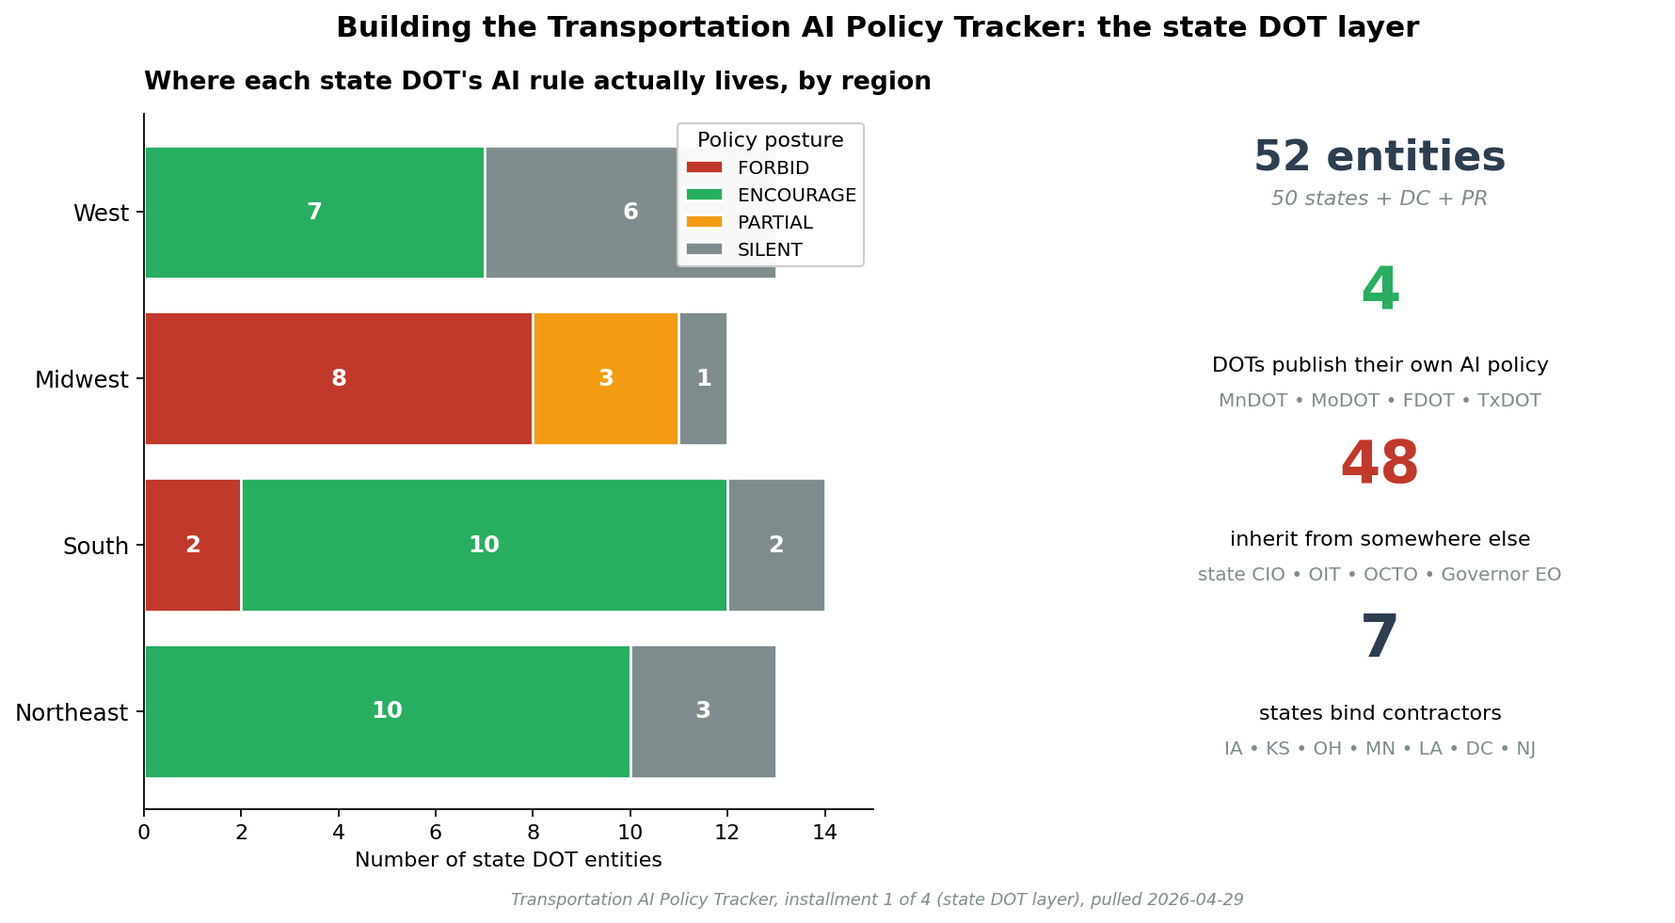
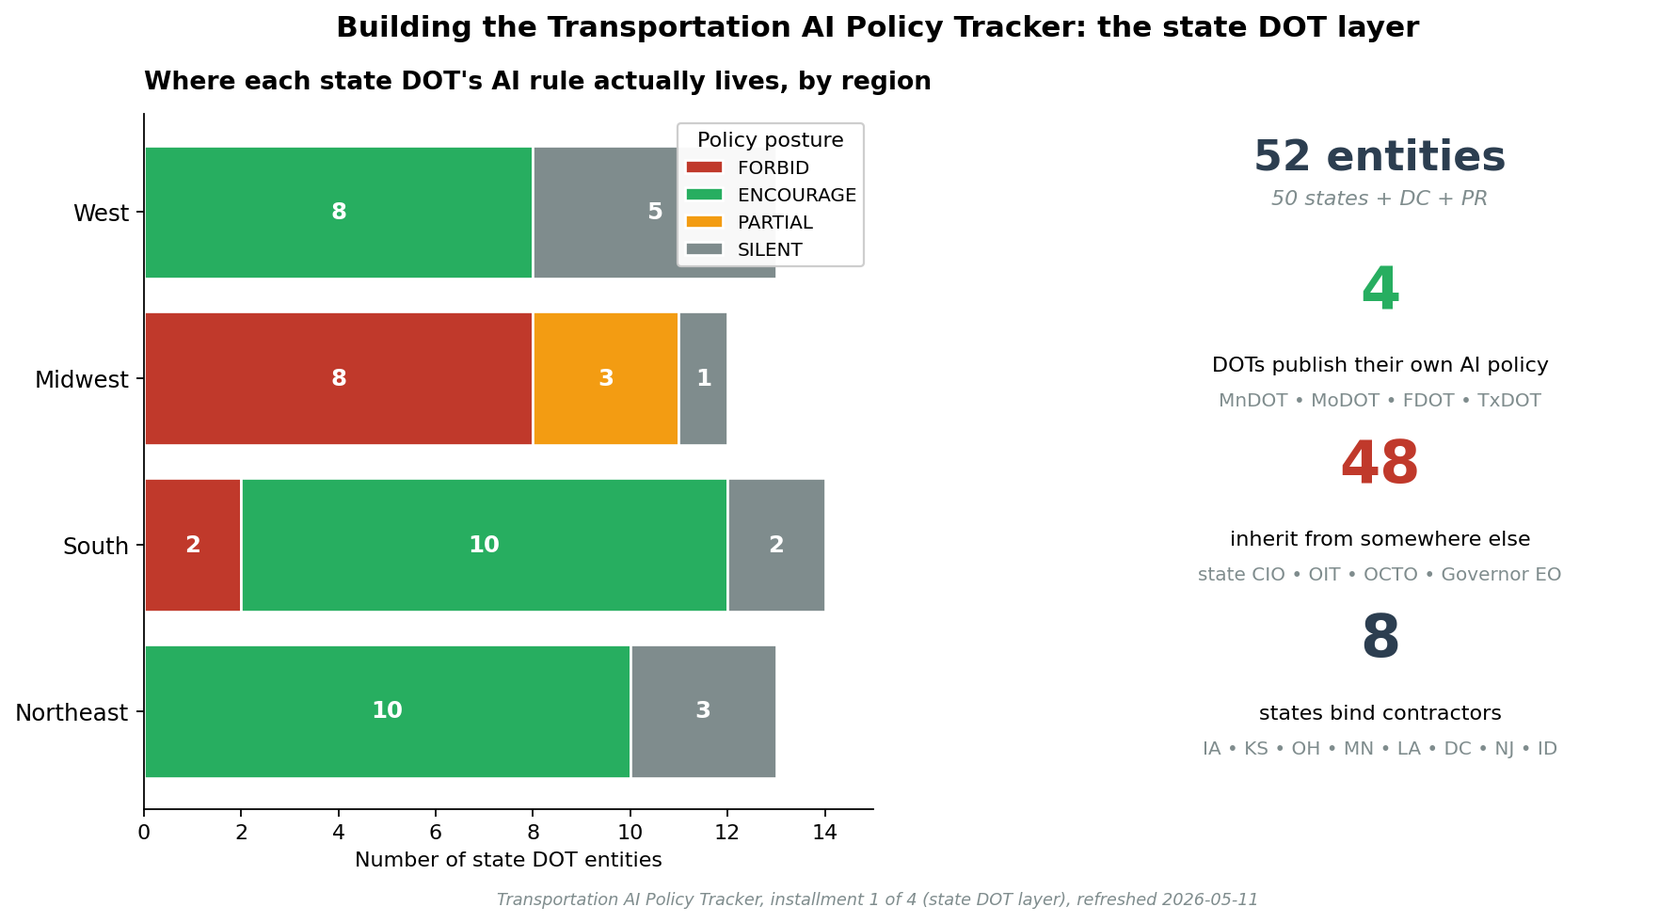
Correct Idaho classification (SILENT -> ENCOURAGE, binds contractors)
Idaho was missed in the initial Tracker pull. The state's AI Governance
Policy, Standard, and Guideline (P.ITS-01 / S.ITS-01 / G.ITS-01) was
published by the Office of Information Technology Services in August 2025
but lives on its.idaho.gov rather than itd.idaho.gov, with a PDF URL path
that misrepresents the date as 2024/09. The PDF binary also required
pdftotext -layout to extract clean text.

The document binds all state employees, contractors, sub-contractors,
agents, and business partners by its own scope clause. ITD inherits it.

Bucket changes:
  ENCOURAGE: 27 -> 28
  SILENT:    10 -> 9 (grand totals) / 12 -> 11 (regional split)
  West region: ENCOURAGE 7 -> 8, SILENT 6 -> 5

Contractor-binding states: 7 -> 8 (Idaho joins IA, KS, OH, MN, LA, DC, NJ).

48-of-52 inherit count is unchanged (Idaho was always in the inheriting
bucket; the policy it inherits just now has a name).

Methodology updated with two new guards:
  - cross-check state IT services subdomain for each state
  - validate PDF text-extraction length, fall back to pdftotext -layout
    or manual download when extraction returns near-empty

Full incident note in CORRECTIONS.md.

Brought to attention by Mike Copeland on LinkedIn 2026-05-10.

diff --git a/build_chart.py b/build_chart.py
@@ -112,17 +112,18 @@ def build_chart():
     ax2.text(0.5, headline_y - 2 * line_h - 0.27, "state CIO • OIT • OCTO • Governor EO",
              ha="center", fontsize=9, color="#7f8c8d", transform=ax2.transAxes)
 
-    # 7 contractor-binding
-    ax2.text(0.5, headline_y - 3 * line_h - 0.22, "7", ha="center", fontsize=28,
+    # 8 contractor-binding (was 7 prior to Idaho correction on 2026-05-11)
+    contractor_count = sum(1 for r in rows if r["contractor_binding"] == "Yes")
+    ax2.text(0.5, headline_y - 3 * line_h - 0.22, str(contractor_count), ha="center", fontsize=28,
              fontweight="bold", color="#2c3e50", transform=ax2.transAxes)
     ax2.text(0.5, headline_y - 3 * line_h - 0.31, "states bind contractors",
              ha="center", fontsize=10, transform=ax2.transAxes)
-    ax2.text(0.5, headline_y - 3 * line_h - 0.36, "IA • KS • OH • MN • LA • DC • NJ",
+    ax2.text(0.5, headline_y - 3 * line_h - 0.36, "IA • KS • OH • MN • LA • DC • NJ • ID",
              ha="center", fontsize=9, color="#7f8c8d", transform=ax2.transAxes)
 
     # Footer
     fig.text(0.5, 0.005,
-             "Transportation AI Policy Tracker, installment 1 of 4 (state DOT layer), pulled 2026-04-29",
+             "Transportation AI Policy Tracker, installment 1 of 4 (state DOT layer), refreshed 2026-05-11",
              ha="center", fontsize=8, color="#7f8c8d", style="italic")
 
     plt.suptitle("Building the Transportation AI Policy Tracker: the state DOT layer",

diff --git a/regional-source-notes/state-dot-corpus-west.md b/regional-source-notes/state-dot-corpus-west.md
@@ -15,7 +15,7 @@ Scope note: very few state DOTs publish standalone AI policies. The dominant pat
 | 3 | **California — Caltrans** | Yes (DOT-level CDAO authority) | [EO N-12-23](https://www.gov.ca.gov/wp-content/uploads/2023/09/AI-EO-No.12-_-GGN-Signed.pdf), [EO N-5-26](https://www.gov.ca.gov/wp-content/uploads/2026/03/3.30-FINAL-Trusted-AI-Procurement-EO-N-5-26.pdf), [State GenAI Guidelines](https://www.govops.ca.gov/wp-content/uploads/sites/11/2024/03/3.a-GenAI-Guidelines.pdf) | EO N-12-23: Sep 6, 2023; State GenAI Guidelines: Mar 2024; EO N-5-26: Mar 30, 2026 | **ENCOURAGE** (most mature) | CalSTA + Caltrans CDAO sets ethical AI policy; statewide GenAI procurement guidelines (SAM/SIMM) | EO N-12-23 (2023), EO N-5-26 (2026), SB 896 GenAI Accountability Act, AB 2013 training-data transparency | **Named CDAO: Vidhu Shekhar** (formalized Feb 2025 via CalSTA memo). 18,000 of 23,000 Caltrans employees got Microsoft Copilot access (April 2025). First DOT in nation to award GenAI vendor contracts (2024) |
 | 4 | **Colorado — CDOT** | No DOT-specific; broad state law in flight | [SB24-205](https://leg.colorado.gov/bills/sb24-205) | Signed May 17, 2024; effective delayed to Jun 30, 2026 (SB 25B-004) | **SILENT** at DOT level | CDOT has Chief Data Office; no published AI AUP located on codot.gov | Colorado AI Act (SB24-205) — consumer protection / high-risk AI deployers, attorney general enforcement | CDOT focus is on connected/autonomous vehicles, traffic ops dashboards, geospatial. No CDAO. SB 24-205 will reach CDOT only if it deploys "high-risk" AI making consequential decisions |
 | 5 | **Hawaii — HDOT** | Partial (statewide framework via ETS) | [HB2152 (2024)](https://www.capitol.hawaii.gov/sessions/session2024/bills/HB2152_.HTM), [ETS Policies](https://ets.hawaii.gov/policies/) | HB2152 enacted 2024; ETS guidelines under development | **SILENT → emerging ENCOURAGE** | Statewide ETS policies/standards apply; AUP via ETS; no HDOT-specific AI AUP located | HB2152 directs ETS + state CIO + cybersecurity coordinator to risk-assess GenAI; no Governor Green AI EO located | Hawaii is in build-the-framework phase. Risk assessment + workforce-impact reports were due to legislature 20 days before 2025 session |
-| 6 | **Idaho — ITD** | No DOT-specific; statewide guidance in draft | [ITS AI Help Center](https://its.idaho.gov/ai/) | 2025 (draft to legislature) | **SILENT** | Office of Information Technology Services (ITS) is drafting statewide AI guidance; presented to legislature Jul 2025 | No AI EO; legislature work-group reviewing | ITD piloting GenAI w/ small group of employees; ITD presented "GenAI Challenge to Highway QA Integrity" at TRB; ITD DMV named one of four AI leaders by ITS |
+| 6 | **Idaho — ITD** | No DOT-specific; ITD inherits binding statewide AI-PSG (P.ITS-01 / S.ITS-01 / G.ITS-01) | [AI Governance Policy/Standard/Guideline (Aug 2025 PDF)](https://its.idaho.gov/wp-content/uploads/2024/09/AI-PSG_FINALAug2025.pdf), [Idaho's AI Advantage Framework](https://its.idaho.gov/wp-content/uploads/2025/08/Idaho-AI-Advantage-Framework.pdf), [ITS AI Help Center](https://its.idaho.gov/ai/) | v1.0 — August 2025 | **ENCOURAGE (binds contractors)** | Idaho Office of Information Technology Services (ITS) published a combined Policy + Standard + Guideline binding all state employees, contractors, sub-contractors, agents, and business partners. Mandatory human review of GenAI outputs; AI-use disclosure on public-facing content; 4-tier data classification (Critical data prohibited from GenAI without AI Executive Committee approval); NIST AI RMF aligned (GOVERN, MAP, MEASURE, MANAGE) | No AI EO at governor level; ITS Executive Committee governs | ITD inherits AI-PSG; ITD DMV named one of four AI leaders by ITS; ITD presented "GenAI Challenge to Highway QA Integrity" at TRB. **Correction (2026-05-11):** Issue 11 originally classified Idaho as SILENT (draft pending). The AI-PSG was published nine months before Issue 11 shipped; we missed it because the document lives on its.idaho.gov rather than itd.idaho.gov, the PDF URL path is `/wp-content/uploads/2024/09/...` despite the Aug 2025 date, and the PDF binary required `pdftotext -layout` to extract cleanly. Brought to attention by Mike Copeland. |
 | 7 | **Montana — MDT** | No DOT-specific; workforce-focused EO | [EO 5-2025 (406 JOBS)](https://news.mt.gov/Governors-Office/Governor_Gianforte_Announces_New_Initiative_to_Bolster_Workforce_Development_in_Skilled_Trades_and_AI) | Aug 11, 2025 | **SILENT** at DOT level | SITSD (CIO Kevin Gilbertson) sets statewide IT standards | EO 5-2025 (workforce/AI training, not guardrails); 2025 session passed Right to Compute Act (SB 212), HB 556 (insurer AI), HB 514 (NIL) | EO 5-2025 directs Dept of Labor to integrate AI tools and train workforce. Montana's posture is permissive ("right to compute"). MDT itself has no public AI policy |
 | 8 | **Nevada — NDOT** | Yes (statewide CIO policy binds NDOT) | [Nevada AI Policy (CIO-signed)](https://www.it.nv.gov/siteassets/itnew.nv.gov/content/governance/Policy_on_the_Responsible_and_Ethical_Use_of_Artificial_Intelligence_in_Nevada_-_CIO_Signed.pdf) | Dec 2024 | **ENCOURAGE** (with explicit floor) | Statewide policy on responsible/ethical AI, signed by CIO Tim Galluzi under Gov. Lombardo | Lombardo policy (Dec 2024); 2025 session: AB 406 (mental health AI restriction), SB 213/263 (AI synthetic intimate images) | Policy explicitly **prohibits agency-level AI policies from being more lenient than the statewide one** — that's load-bearing for NDOT |
 | 9 | **New Mexico — NMDOT** | No DOT-specific; statewide transparency law | [HB0184 (2024)](https://www.nmlegis.gov/Sessions/24%20Regular/bills/house/HB0184.HTML) | 2024 session; first inventories due Oct 1, 2024 | **SILENT** at DOT level | Statewide General Services Department implementing the AI Transparency Act ($500K appropriation) | Government Use of AI Transparency Act (HB0184) — agencies must inventory AI systems, identify whether they make/inform "consequential decisions" | NMDOT must report its AI inventory to the state. No AI EO. AG Torrez has proposed deepfake legislation separately |
@@ -114,9 +114,9 @@ Per [Daily Montanan reporting](https://dailymontanan.com/2025/08/11/gianforte-an
 
 Of the 13 western state DOTs, **zero** publish their own standalone AI acceptable-use policy. The bucket distribution falls on the **statewide policies that bind each DOT**:
 
-- **ENCOURAGE-with-guardrails (7):** Arizona, California, Nevada, Oregon, Utah, Washington — plus Alaska, where two 2025 administrative orders are explicitly pro-AI but lack data-handling fences.
-- **SILENT at DOT level (6):** Colorado, Hawaii (framework still being built), Idaho (draft pending), Montana, New Mexico (transparency-only), Wyoming.
-- **FORBID (0):** No western state DOT operates under an explicit prohibition on cloud AI uploads. The strictest language is Arizona's P2000 ("confidential data shall not be entered into publicly accessible AI systems without authorization"), and Nevada's policy floor ("agency-level AI policies cannot be more lenient than statewide").
+- **ENCOURAGE-with-guardrails (8):** Arizona, California, Idaho (corrected 2026-05-11 — see Idaho row note), Nevada, Oregon, Utah, Washington — plus Alaska, where two 2025 administrative orders are explicitly pro-AI but lack data-handling fences.
+- **SILENT at DOT level (5):** Colorado, Hawaii (framework still being built), Montana, New Mexico (transparency-only), Wyoming.
+- **FORBID (0):** No western state DOT operates under an explicit prohibition on cloud AI uploads. The strictest language is Arizona's P2000 ("confidential data shall not be entered into publicly accessible AI systems without authorization"), Nevada's policy floor ("agency-level AI policies cannot be more lenient than statewide"), and Idaho's tiered restriction (Critical data prohibited from GenAI without AI Executive Committee authorization).
 
 **Most surprising finding:** Caltrans is the **clear outlier on the upside** — it has a named CDAO (Vidhu Shekhar), 18,000 employees with Microsoft Copilot access, and the first GenAI vendor contracts in any state DOT. The next-most-mature Western DOT is roughly two years behind it.
 
@@ -144,7 +144,10 @@ Of the 13 western state DOTs, **zero** publish their own standalone AI acceptabl
 - [Utah DTS AI Initiatives](https://dts.utah.gov/what-we-are-doing/our-initiatives/artificial-intelligence/)
 - [Hawaii HB2152 (2024)](https://legiscan.com/HI/text/HB2152/id/2896940)
 - [Hawaii ETS Policies](https://ets.hawaii.gov/policies/)
+- [Idaho ITS — Artificial Intelligence Governance Policy, Standard, and Guideline (P.ITS-01 / S.ITS-01 / G.ITS-01), Aug 2025 PDF](https://its.idaho.gov/wp-content/uploads/2024/09/AI-PSG_FINALAug2025.pdf)
+- [Idaho's AI Advantage: A Framework for Responsible Innovation, Aug 2025 PDF](https://its.idaho.gov/wp-content/uploads/2025/08/Idaho-AI-Advantage-Framework.pdf)
 - [Idaho ITS AI Help Center](https://its.idaho.gov/ai/)
+- [Idaho ITS Policy & Governance index](https://its.idaho.gov/policy-governance/)
 - [New Mexico HB0184 (2024)](https://www.nmlegis.gov/Sessions/24%20Regular/bills/house/HB0184.HTML)
 - [Alaska Admin Order 359](https://gov.alaska.gov/admin-orders/administrative-order-no-359/)
 - [Alaska Admin Order 360](https://gov.alaska.gov/admin-orders/administrative-order-no-360/)

diff --git a/CORRECTIONS.md b/CORRECTIONS.md
@@ -1,0 +1,87 @@
+# Issue 11 Corrections
+
+Issue 11 ("State DOT AI policies — the inheritance pattern + contractor-binding gap") shipped in May 2026. This file logs every correction to the underlying Tracker corpus after publication. Issue 11's published body, social copy, and substack HTML are **not modified** — they remain the record of what was sent. Corrections flow to the corpus, the CSV, the GitHub repo, and (eventually) the Issue 11 reference page.
+
+---
+
+## 2026-05-11 — Idaho reclassified from SILENT to ENCOURAGE (binds contractors)
+
+### What Issue 11 originally said
+
+> Idaho — ITD. No DOT-specific; statewide guidance in draft. Status: **SILENT**. Office of Information Technology Services (ITS) is drafting statewide AI guidance; presented to legislature Jul 2025.
+
+### What's actually true
+
+Idaho Office of Information Technology Services (ITS) published a binding *Artificial Intelligence Governance Policy, Standard, and Guideline* (P.ITS-01 / S.ITS-01 / G.ITS-01), Version 1.0, in **August 2025** — nine months before Issue 11 shipped.
+
+**Document URL:** https://its.idaho.gov/wp-content/uploads/2024/09/AI-PSG_FINALAug2025.pdf
+**Companion strategic doc:** *Idaho's AI Advantage: A Framework for Responsible Innovation*, August 2025 — https://its.idaho.gov/wp-content/uploads/2025/08/Idaho-AI-Advantage-Framework.pdf
+
+### What the AI-PSG does
+
+- Combined Policy + Standard + Guideline (three instruments in one document).
+- **Scope (§1.3 and §2.1):** binds all State of Idaho employees, contractors, sub-contractors, agents, and business partners conducting state business.
+- **Mandatory human review** of GenAI outputs used for official purposes.
+- **AI-use disclosure required** on public-facing content with a standardized disclaimer.
+- **Four-tier data classification.** Critical data prohibited from GenAI without AI Executive Committee approval.
+- **NIST AI RMF aligned** (GOVERN, MAP, MEASURE, MANAGE).
+- **Procurement requirements:** AI vendor contracts must include security, privacy, audit rights, transparency, and incident-reporting clauses.
+
+ITD has no transportation-specific AI document, so it inherits the statewide AI-PSG by scope. The inheritance is binding on contractors, not advisory.
+
+### Effect on Tracker classifications
+
+| Field | Before | After |
+|---|---|---|
+| Bucket | SILENT | ENCOURAGE (with guardrails) |
+| Contractor-binding | No | **Yes** |
+| Policy origin | None active | Office of Information Technology Services (ITS) |
+| Policy URL | https://its.idaho.gov/ai/ | https://its.idaho.gov/wp-content/uploads/2024/09/AI-PSG_FINALAug2025.pdf |
+| Date | 2025 (draft) | 2025-08 (v1.0 final) |
+
+### Effect on Tracker grand totals
+
+| Metric | Before | After |
+|---|---|---|
+| Bucket: ENCOURAGE | 27 (52%) | **28 (54%)** |
+| Bucket: SILENT | 10 (19%) | **9 (17%)** |
+| Region West: ENCOURAGE | 7 | **8** |
+| Region West: SILENT | 6 | **5** |
+| Contractor-binding states | 7 | **8** |
+| "48 of 52 inherit" | 48 | **48** (unchanged — Idaho was always counted as inheriting; the policy it inherits just now has a name) |
+| "4 publish their own" | 4 (MnDOT, MoDOT, FDOT, TxDOT) | **4** (unchanged) |
+
+### Why it got missed
+
+Three structural reasons that the methodology should be updated to avoid:
+
+1. **PDF URL path lies about the date.** Document is dated August 2025 but lives at `/wp-content/uploads/2024/09/AI-PSG_FINALAug2025.pdf`. A date-filter scrape that excluded "2024" URL paths would skip it.
+2. **Document lives on the state IT portal (its.idaho.gov), not on the DOT website (itd.idaho.gov).** The original Tracker pull was DOT-anchored. It did not systematically cross-check the state CIO / Office of Information Technology site for each state.
+3. **The PDF binary is compressed and image-laden.** Standard WebFetch returned garbage; only `pdftotext -layout` extracted clean text. Any methodology relying on LLM-summarized PDF fetches without an OCR/pdftotext fallback will silently miss content like this.
+
+### Methodology fix going forward
+
+For each state's Tracker entry, the methodology now requires checking, in addition to the DOT website:
+- `[state-abbreviation].gov` root
+- `its.[state].gov` or equivalent state IT services site
+- The state CIO / Office of Information Technology office
+- The Governor's executive orders index
+- Validation that PDF text extraction returned >500 characters of readable text. If not, fall back to `pdftotext -layout` or manual download.
+
+### Credit
+
+Brought to attention by **Mike Copeland** on LinkedIn, 2026-05-10.
+
+### Files updated for this correction
+
+- [transportation-ai-policy-tracker.csv](./transportation-ai-policy-tracker.csv) — Idaho row reclassified.
+- [regional-source-notes/state-dot-corpus-west.md](./regional-source-notes/state-dot-corpus-west.md) — Idaho row + Western region summary + sources updated.
+- [master-corpus.md](./master-corpus.md) — grand totals, regional split, contractor-binding inventory updated.
+- [README.md](./README.md) — headline findings updated.
+- [methodology.md](./methodology.md) — new source-search step + PDF text-extraction guard added.
+- [issue-11-chart.png](./issue-11-chart.png) — regenerated from the corrected bucket counts.
+- This file ([CORRECTIONS.md](./CORRECTIONS.md)) — created.
+
+### Files NOT modified (intentionally)
+
+The Issue 11 newsletter body, the Substack mirror, the social posts as published on May 2026, and the issue-specific build files remain the historical record of what subscribers received. Any future reference to Idaho's classification should point at this file rather than the published Issue 11 body.

diff --git a/master-corpus.md b/master-corpus.md
@@ -18,10 +18,10 @@ Total: **52 entities** (50 states + DC + PR).
 | Bucket | Count | % | Verbatim definition |
 |---|---|---|---|
 | **FORBID** | 10 | 19% | Explicitly prohibits non-public agency data into commercial GenAI tools. Hard ban or termination-grade language. |
-| **ENCOURAGE (with guardrails)** | 27 | 52% | Permits AI use under stated conditions: training, supervisor approval, human-in-the-loop, data classification, named tools only. |
+| **ENCOURAGE (with guardrails)** | 28 | 54% | Permits AI use under stated conditions: training, supervisor approval, human-in-the-loop, data classification, named tools only. |
 | **PARTIAL / hybrid / restricted** | 5 | 10% | Mix of forbid + encourage signals. Or guideline-flavored, no enforcement. |
-| **SILENT (no operative policy at any level)** | 10 | 19% | No published AI-specific policy at the DOT or parent state level as of April 2026. |
-| **Total** | **52** | **100%** | |
+| **SILENT (no operative policy at any level)** | 9 | 17% | No published AI-specific policy at the DOT or parent state level as of April 2026. |
+| **Total** | **52** | **100%** | *Idaho reclassified ENCOURAGE on 2026-05-11 (was SILENT); see [CORRECTIONS.md](./CORRECTIONS.md).* |
 
 ---
 
@@ -30,10 +30,10 @@ Total: **52 entities** (50 states + DC + PR).
 | Region | FORBID | ENCOURAGE | PARTIAL | SILENT | Total |
 |---|---|---|---|---|---|
 | Midwest | 8 | 0 | 3 | 1 | 12 |
-| West | 0 | 7 | 0 | 6 | 13 |
+| West | 0 | 8 | 0 | 5 | 13 |
 | South | 2 | 9 | 0 | 3 | 14 |
 | Northeast (+ DC + PR) | 0 | 11 | 0 | 2 | 13 |
-| **Total** | **10** | **27** | **3** | **12** | **52** |
+| **Total** | **10** | **28** | **3** | **11** | **52** |
 
 *Hybrid/partial counts vary slightly by interpretation across regions; see component files for the exact bucket reasoning per state.*
 
@@ -138,6 +138,7 @@ For consulting PMs, this is the single most important dimension. States that exp
 | **Louisiana** | "Agencies shall submit all software, applications, tools, and services utilizing AI for business operations to OTS for review prior to procurement and implementation." (Procurement gate effectively binds vendors and consultants.) |
 | **DC** | First major US city to mandate Responsible AI training for **all gov employees + contractors**. |
 | **NJ** | Mandatory "Responsible AI for Public Professionals" course for state employees; flow-down to consultants likely. |
+| **Idaho** | AI-PSG §1.3 and §2.1 explicitly bind "all State of Idaho employees, contractors, sub-contractors, and their respective facilities supporting official State business operations." (Added 2026-05-11; see [CORRECTIONS.md](./CORRECTIONS.md).) |
 
 Almost every other state's policy applies to "state employees" only and is silent on contractors. **For a consulting PM, the practical answer to "can I use AI on this project" depends on (1) the contract's specific AI clauses, (2) whether the state extends its policy to consultants, and (3) the federal funding layer.**
 

diff --git a/methodology.md b/methodology.md
@@ -11,12 +11,15 @@ How the Transportation AI Policy Tracker classifies each entity.
 Sources searched, in order:
 
 1. The state DOT's own website (search terms: "artificial intelligence," "AI policy," "generative AI," "machine learning policy," "acceptable use policy AI," "ChatGPT").
-2. The state CIO / Office of Information Technology / Department of Information Services published policies covering all executive-branch agencies (which includes the DOT).
+2. The state CIO / Office of Information Technology / Department of Information Services published policies covering all executive-branch agencies (which includes the DOT). Includes `its.[state].gov` and equivalent subdomains.
 3. Governor executive orders affecting state AI use.
 4. Statewide statutes and codified rules (where they apply directly to AI use by state employees and contractors).
 5. State Comptroller / Inspector General audits that specifically called out the DOT (e.g., NY OSC audit, April 2025).
+6. The state's primary `.gov` root and government directory pages, as a backstop for documents that are hosted under a state-IT subdomain rather than the DOT.
 
-If no AI-specific policy was found at any of those levels, the entity is classified as SILENT. Silent does not mean permitted — most silent entities still inherit a general IT acceptable-use policy that may limit AI use in practice, even when no AI-specific document exists.
+Each PDF located is text-extracted with a length check (>500 characters of readable text). If extraction returns an empty or near-empty string, the PDF is re-processed with `pdftotext -layout` or downloaded for manual reading before being classified. This guard was added on 2026-05-11 after the Idaho AI-PSG was found to live on the state IT portal under a misleading URL path and to require layout-aware extraction to read cleanly. See [CORRECTIONS.md](CORRECTIONS.md) for the full incident note.
+
+If no AI-specific policy is found at any of those levels, the entity is classified as SILENT. Silent does not mean permitted — most silent entities still inherit a general IT acceptable-use policy that may limit AI use in practice, even when no AI-specific document exists.
 
 ---
 

diff --git a/README.md b/README.md
@@ -43,14 +43,16 @@ The Tracker is published in installments:
 
 - **52 entities surveyed.**
 - **10 FORBID** putting non-public agency data into commercial GenAI.
-- **27 ENCOURAGE** with stated guardrails.
+- **28 ENCOURAGE** with stated guardrails.
 - **3 PARTIAL** (hybrid / guideline-only postures).
-- **12 SILENT** (no AI-specific policy at any level).
+- **11 SILENT** (no AI-specific policy at any level).
 - **Only 4 DOTs publish their own AI policy:** MnDOT (IT-003), MoDOT (Employee Conduct), FDOT (May 2024), TxDOT (Strategic Plan FY 2025-2027).
 - **48 of 52 inherit** their AI policy from the state CIO, OIT, OCTO, or a Governor's executive order.
-- **Only 7 states extend AI rules to contractors:** Iowa, Kansas, Ohio, Minnesota, Louisiana, DC, New Jersey.
+- **8 states extend AI rules to contractors:** Iowa, Kansas, Ohio, Minnesota, Louisiana, DC, New Jersey, Idaho.
 
-Strong regional split: Midwest forbids most (8 of 12). West permits most (0 of 13 forbid). Northeast publishes the most formal frameworks (10 of 13 ENCOURAGE). South splits between two operational leaders (FDOT, TxDOT) and a few silent states.
+Strong regional split: Midwest forbids most (8 of 12). West permits most (0 of 13 forbid; 8 ENCOURAGE). Northeast publishes the most formal frameworks (10 of 13 ENCOURAGE). South splits between two operational leaders (FDOT, TxDOT) and a few silent states.
+
+*Updated 2026-05-11 — Idaho reclassified from SILENT to ENCOURAGE (binds contractors) after the state's AI-PSG (Aug 2025) was identified. See [CORRECTIONS.md](CORRECTIONS.md).*
 
 ---
 
